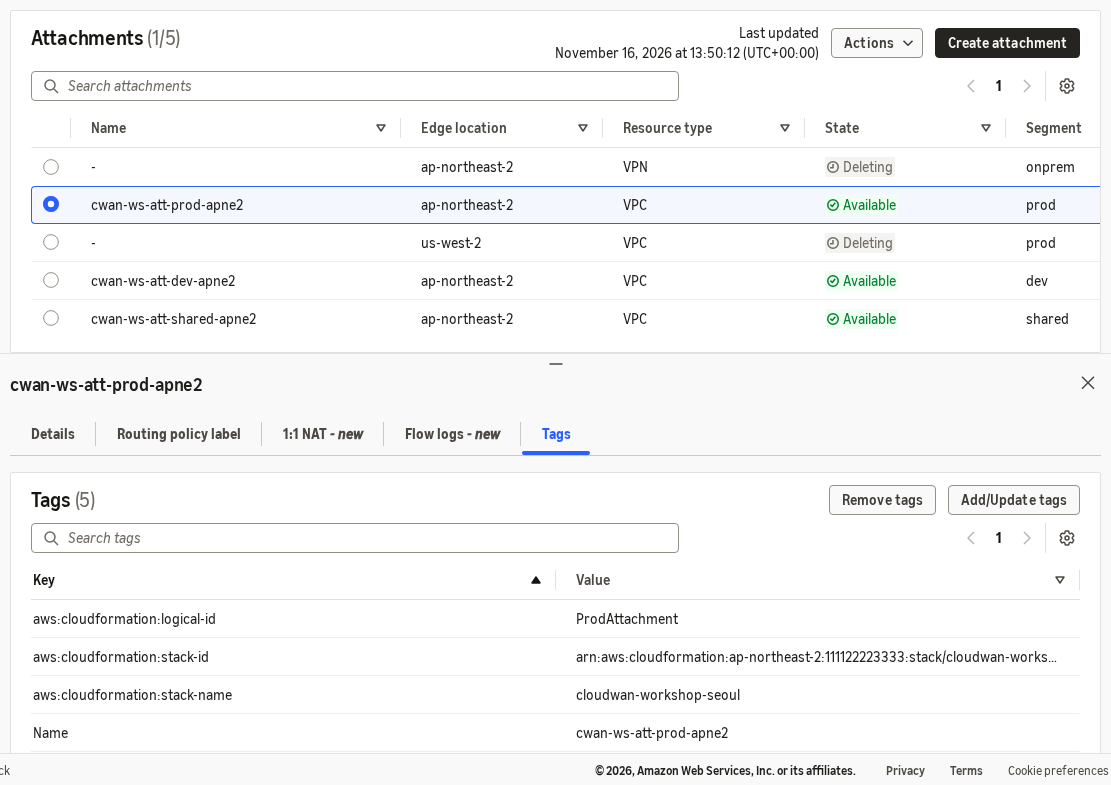
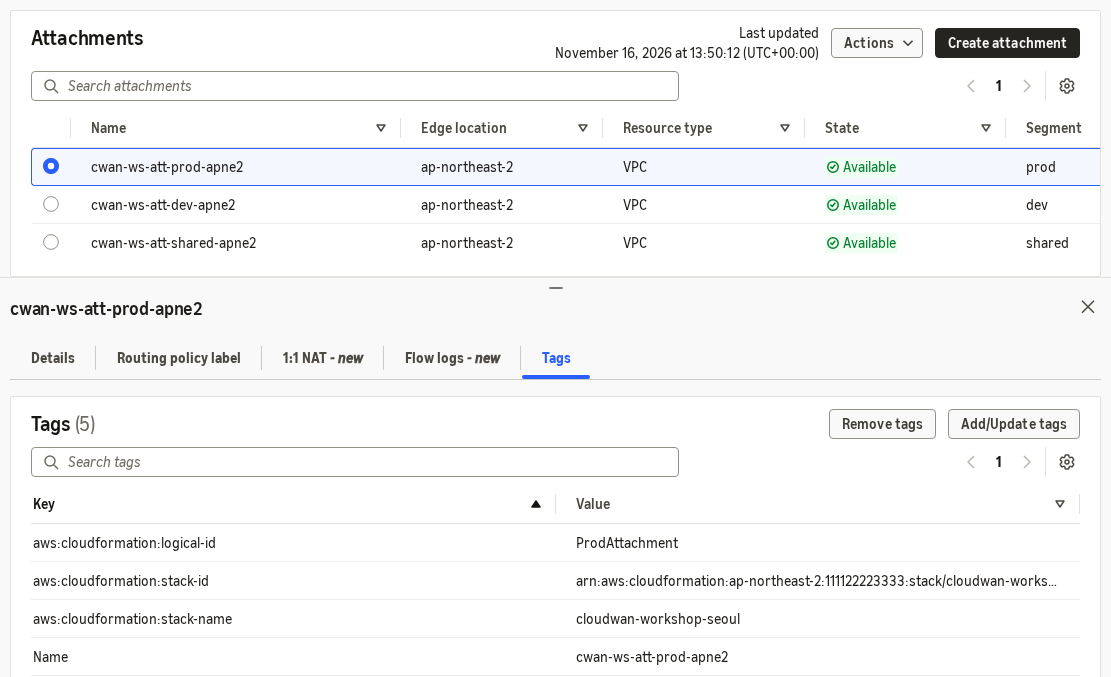
Cut the rows three attachment shots should not be showing
lab1-attach-04 and lab2-attach-02 were shot after the rehearsal had moved
on, so they held attachments from later steps; lab1-core-02 was shot during
teardown and held two rows in Deleting, which its alt text did not mention
and the page's own "onprem is still empty" note contradicted.

The screens are real and cannot be re-shot without standing the lab up
again, so shots/retouch.json records which row bands come out and crop.py's
output is retouched from it. The panel row counter is erased rather than
corrected: the console sets it in Amazon Ember, which we do not have.

Claude-Session: https://claude.ai/code/session_019PvznuDZaZguvoDVdVkBrg

diff --git a/shots/retouch.py b/shots/retouch.py
@@ -1,0 +1,85 @@
+"""Apply shots/retouch.json: cut the rows a shot should not be showing.
+
+Three table shots were taken at the wrong moment. The screens are real, but the
+rehearsal had moved on, so the attachment list holds rows that belong to a later
+step - a us-west-2 dev attachment from 3-1, an onprem VPN from 2-3, two rows in
+Deleting from the teardown. Showing a reader a list that cannot exist at their
+step is worse than showing no picture, and these screens cannot be re-shot
+without standing the whole lab up again, so the stale rows come out here.
+
+Each row band is a half-open [top, bottom) box in the cropped image, taken so
+that it carries the row's content plus the separator line under it. The rows
+below slide up and the canvas loses that much height, which is what the console
+itself would have drawn with one row fewer.
+
+The row counter in the panel heading goes too, because "(6)" over four rows
+contradicts the picture. It is erased, not corrected: the console sets it in
+Amazon Ember, a webfont we do not have, so a re-rendered digit would sit beside
+real text in the wrong typeface. A heading with no count is how Cloudscape draws
+the panel before a count is known, and the rows stay countable by eye.
+
+Coordinates are in the CROPPED image, as crop.py writes it, so re-measure them
+if a crop box moves. `size` is the cropped size each entry was measured against;
+an image of any other size is left alone rather than cut in the wrong place.
+
+    uv run --with pillow python shots/retouch.py           # report
+    uv run --with pillow python shots/retouch.py --apply    # rewrite docs images
+"""
+import json
+import sys
+from pathlib import Path
+
+from PIL import Image
+
+HERE = Path(__file__).resolve().parent
+DOCS = HERE.parent / "docs"
+PLAN = json.loads((HERE / "retouch.json").read_text())
+
+
+def retouch(im: Image.Image, spec: dict) -> Image.Image:
+    """Drop the recorded row bands and white out the recorded boxes."""
+    w, h = im.size
+    drops = sorted(tuple(b) for b in spec["drop_rows"])
+    keep = []
+    y = 0
+    for top, bottom in drops:
+        if y < top:
+            keep.append((y, top))
+        y = max(y, bottom)
+    if y < h:
+        keep.append((y, h))
+    out = Image.new(im.mode, (w, sum(b - a for a, b in keep)), "white")
+    at = 0
+    for a, b in keep:
+        out.paste(im.crop((0, a, w, b)), (0, at))
+        at += b - a
+    for box in spec.get("erase", []):
+        out.paste("white", tuple(box))
+    return out
+
+
+def main() -> None:
+    apply = "--apply" in sys.argv
+    for rel, spec in sorted(PLAN.items()):
+        dst = DOCS / rel
+        if not dst.exists():
+            print(f"{rel}: not built yet, skipped")
+            continue
+        with Image.open(dst) as im:
+            if list(im.size) != spec["size"]:
+                print(f"{rel}: is {im.size[0]}x{im.size[1]}, expected "
+                      f"{spec['size'][0]}x{spec['size'][1]} - already retouched "
+                      f"or re-cropped, left alone")
+                continue
+            out = retouch(im.convert("RGB"), spec)
+        rows = len(spec["drop_rows"])
+        print(f"{rel}: {spec['size'][0]}x{spec['size'][1]} -> "
+              f"{out.size[0]}x{out.size[1]} ({rows} row{'' if rows == 1 else 's'} out)")
+        if apply:
+            out.save(dst, optimize=True)
+    if not apply:
+        print("\npass --apply to write them")
+
+
+if __name__ == "__main__":
+    main()

diff --git a/shots/trim.py b/shots/trim.py
@@ -97,8 +97,14 @@ def main() -> None:
     apply = "--apply" in sys.argv
     crops_file = HERE / "crops.json"
     crops = json.loads(crops_file.read_text())
+    # Retouched shots have rows cut out of them by boxes measured against the
+    # crop they have now, so moving their crop box would cut the wrong rows.
+    retouched = set(json.loads((HERE / "retouch.json").read_text()))
     changed = {}
     for rel, box in sorted(crops.items()):
+        if rel in retouched:
+            print(f"{rel}: retouched, left alone")
+            continue
         src = HERE / "raw" / Path(rel).relative_to("images")
         if not src.exists():
             print(f"{rel}: no raw file, skipped")

diff --git a/docs/lab1.md b/docs/lab1.md
@@ -38,7 +38,7 @@
 
 4. 왼쪽 메뉴에서 **Attachments** 를 누릅니다. 스택이 만든 서울 연결 3개가 보이고, **Segment** 열에 `prod`, `dev`, `shared` 가 각각 적혀 있습니다.
 
-    ![core network의 Attachments 목록. 연결이 세 개뿐이고 모두 스택이 만든 서울 연결이다. 각 줄은 Name이 cwan-ws-att-prod-apne2, cwan-ws-att-dev-apne2, cwan-ws-att-shared-apne2이고, Edge location이 모두 ap-northeast-2, Resource type이 VPC, State가 초록색 Available, Segment가 각각 prod, dev, shared다](images/console/lab1-core-02-attachments.png){ .shot }
+    ![core network의 Attachments 목록. 연결이 세 개뿐이고 모두 스택이 만든 서울 연결이다. 각 줄은 Name이 cwan-ws-att-prod-apne2, cwan-ws-att-dev-apne2, cwan-ws-att-shared-apne2이고, Edge location이 모두 ap-northeast-2, Resource type이 VPC, State가 초록색 Available, Segment가 각각 prod, dev, shared다. 첫 줄 cwan-ws-att-prod-apne2는 왼쪽 선택 버튼이 눌려 파란색으로 강조되어 있고, 표 아래에 그 연결의 상세 창이 열려 있다. 상세 창에는 Details, Routing policy label, 1:1 NAT, Flow logs, Tags 탭이 있고 Tags 탭이 선택되어 있다. Tags (5) 표에는 aws:cloudformation:logical-id이 ProdAttachment, aws:cloudformation:stack-name이 cloudwan-workshop-seoul, Name이 cwan-ws-att-prod-apne2인 줄을 포함해 네 줄이 보이고, 다섯 번째인 segment 태그는 화면 아래로 밀려 보이지 않는다](images/console/lab1-core-02-attachments.png){ .shot }
 
 5. `cwan-ws-att-prod-apne2` 행의 왼쪽 **선택 버튼**을 누릅니다. 표 아래에 상세 창이 열립니다. **Tags** 탭에서 `segment` = `prod` 태그를 확인합니다.
 
@@ -200,6 +200,8 @@ rtt min/avg/max/mdev = 1.066/1.655/3.945/1.144 ms
 `tag-exists` 조건은 `segment` 태그가 있는지 봅니다. 있으면 그 태그의 값(`prod`)과 이름이 같은 세그먼트에 연결을 배정합니다. 그래서 태그 값을 `prod`로 넣었는지가 중요합니다. 대소문자도 같아야 합니다.
 
 attachment 상태가 `Available` 이 되면 **Attachments** 목록에서 그 행의 **Segment** 열이 `prod` 인지 확인합니다. [2-2-a](#lab1-a)에서 서울 연결 세 개를 봤던 그 목록이고, 이제 `cwan-ws-att-prod-usw2` 가 **Edge location** `us-west-2` 로 한 줄 늘어 있습니다.
+
+![core network의 Attachments 목록. 2-2-a에서 본 서울 연결 세 개에 cwan-ws-att-prod-usw2 한 줄이 늘어 모두 네 줄이다. 새로 생긴 줄은 Edge location이 us-west-2이고 Resource type이 VPC, State가 초록색 Available, Segment가 prod다. 나머지 세 줄은 Edge location이 ap-northeast-2이고 Segment가 각각 prod, dev, shared다. 이 그림에서는 Edge location과 Resource type 열이 좁아 값이 줄임표로 잘려 있다](images/console/lab1-attach-04-available.png){ .shot }
 
 **성공 확인**: attachment 상태가 `Available`이고 **Segment**가 `prod`입니다. 직접 고르지 않았는데 `prod`에 들어갔습니다.
 

diff --git a/docs/lab2.md b/docs/lab2.md
@@ -76,7 +76,9 @@
 
 attachment policy는 `segment` 태그 값과 같은 이름의 세그먼트에 attachment를 배정합니다. 그래서 이 태그 하나로 VPN이 `onprem` 세그먼트에 들어갑니다.
 
-**성공 확인**: attachment 목록에서 **Attachment state**가 **Available**이 되고, **Segment**(또는 세그먼트 열)가 `onprem`입니다. 상태가 바뀌기까지 걸리는 시간은 사전 테스트에서 측정합니다.
+![core network의 Attachments 목록. 맨 윗줄에 cwan-ws-att-onprem-apne2가 생겨 모두 다섯 줄이다. 이 줄만 Resource type이 VPN이고 나머지 네 줄은 VPC다. 새 줄은 Edge location이 ap-northeast-2, State가 초록색 Available, Segment가 onprem이다. 아래 네 줄은 2-2-d까지 만든 연결로 cwan-ws-att-prod-apne2가 prod, cwan-ws-att-prod-usw2가 us-west-2의 prod, cwan-ws-att-dev-apne2가 dev, cwan-ws-att-shared-apne2가 shared다](images/console/lab2-attach-02-available.png){ .shot }
+
+**성공 확인**: attachment 목록에서 **Attachment state**가 **Available**이 되고, **Segment**(또는 세그먼트 열)가 `onprem`입니다. 사전 테스트에서 `Available` 이 되기까지 **3분 30초** 걸렸습니다.
 
 ## 2-3-c. 온프레미스 라우터에 터널 설정하기 { #lab2-c }
 
